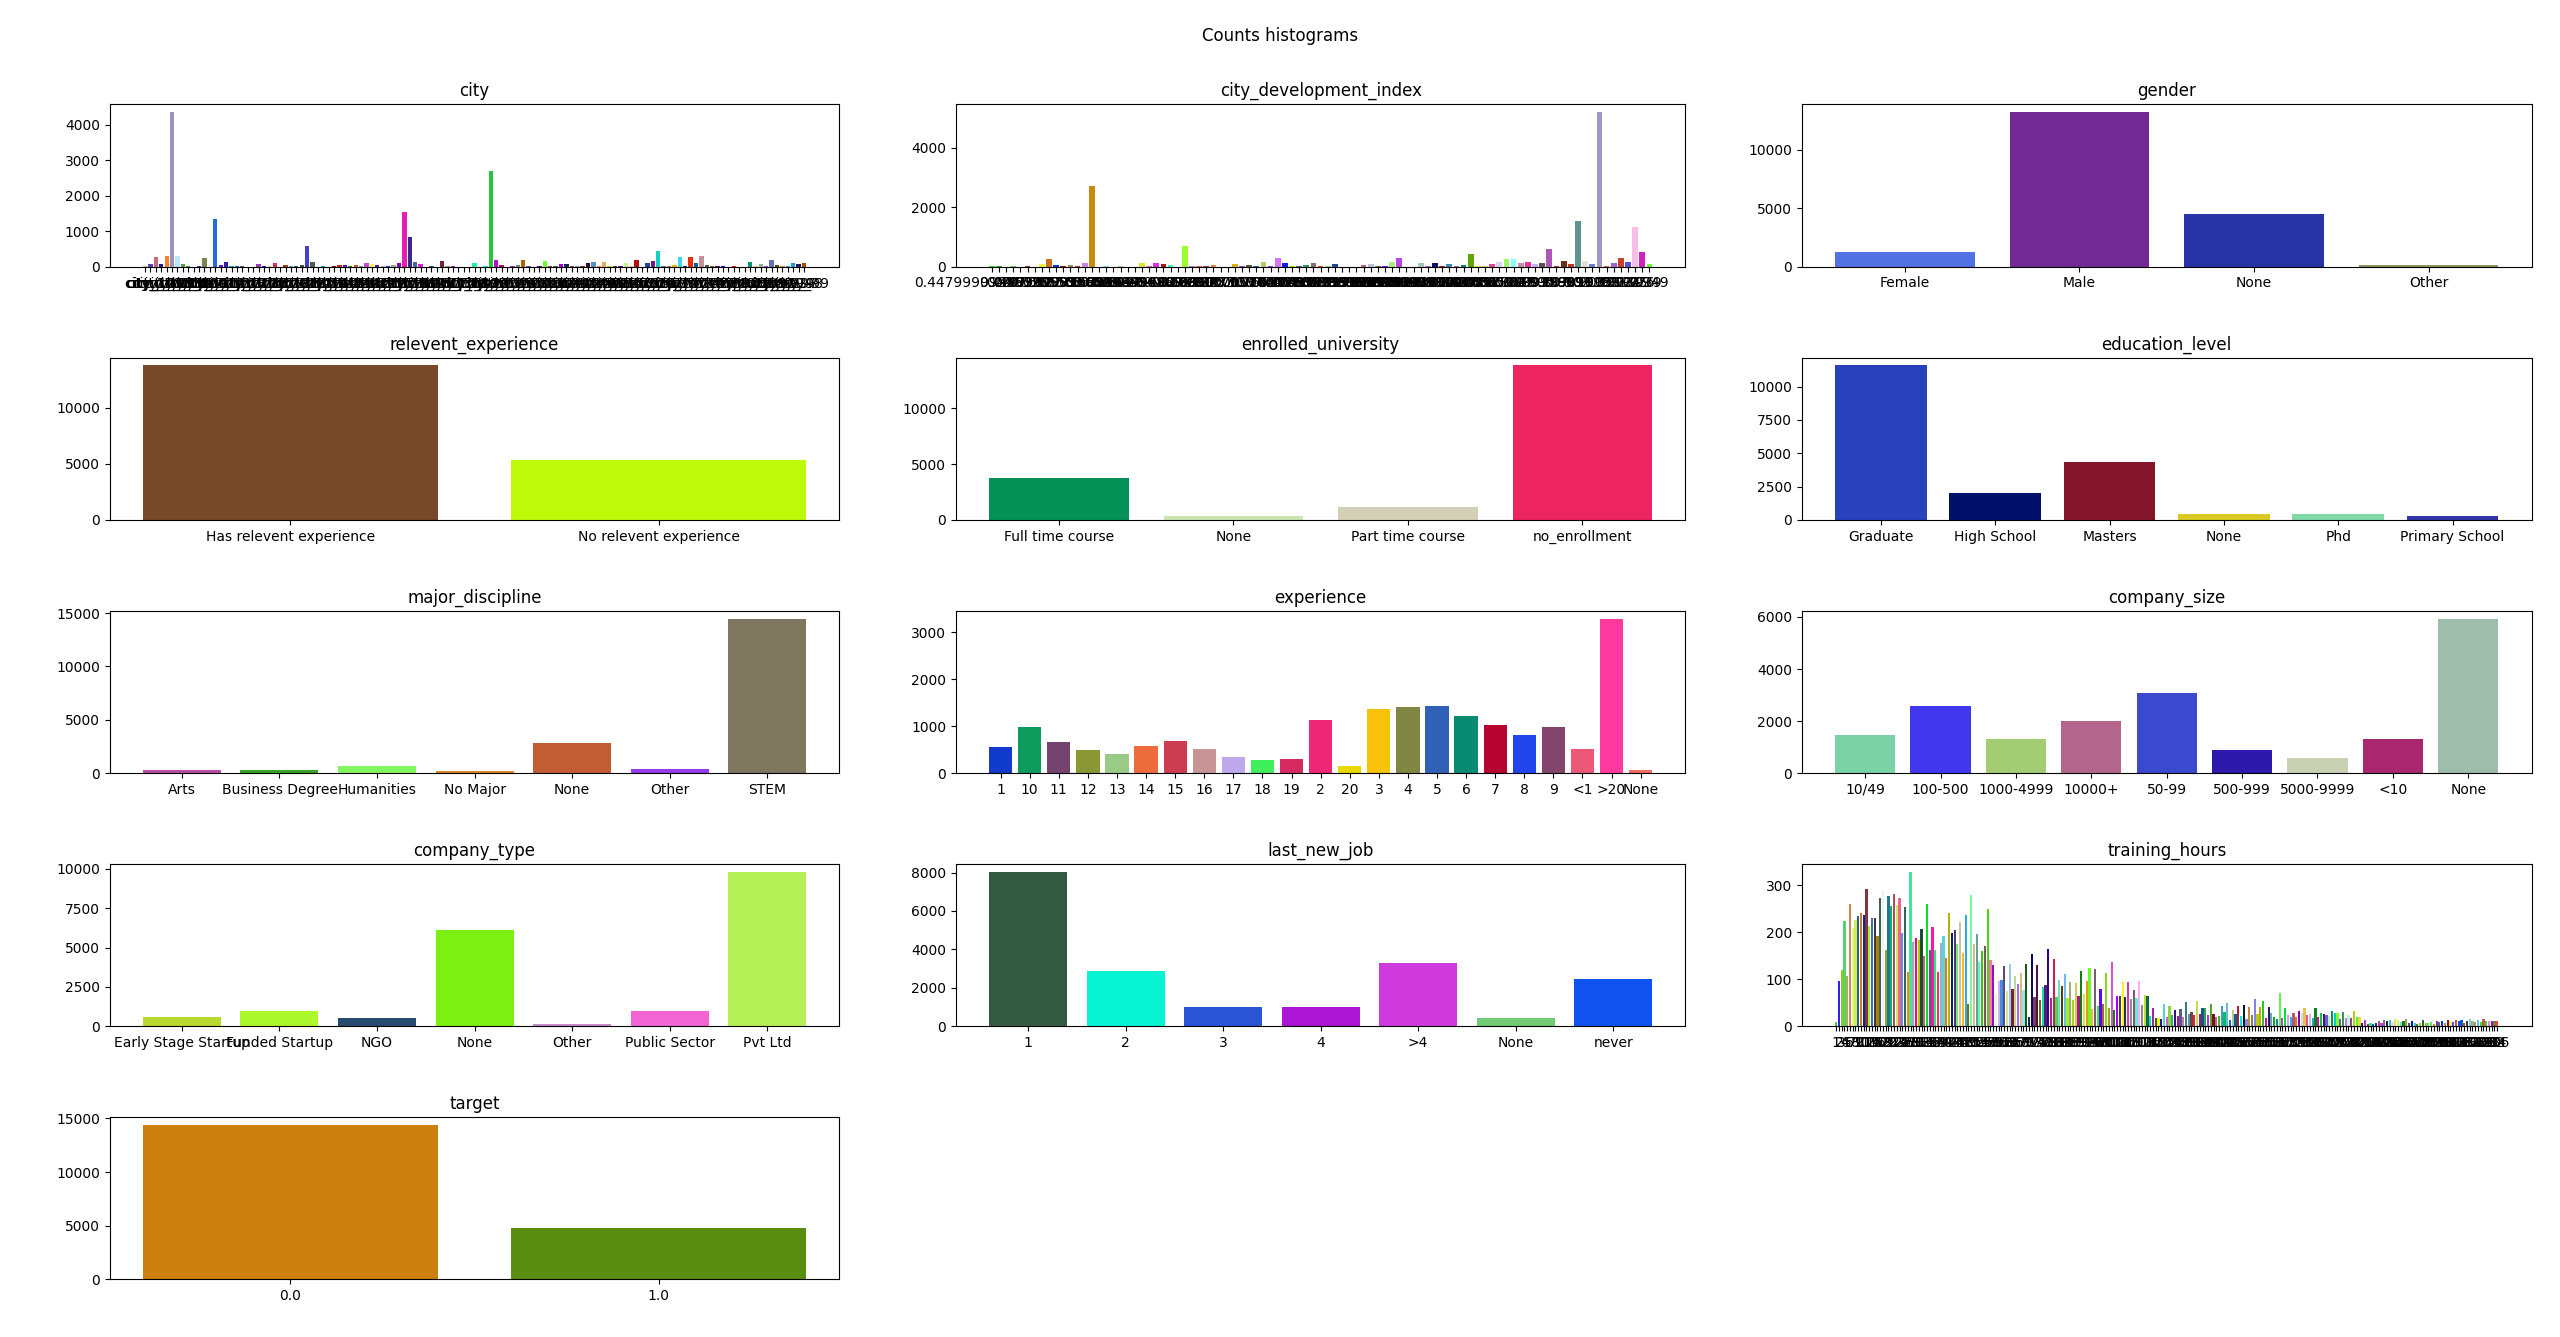
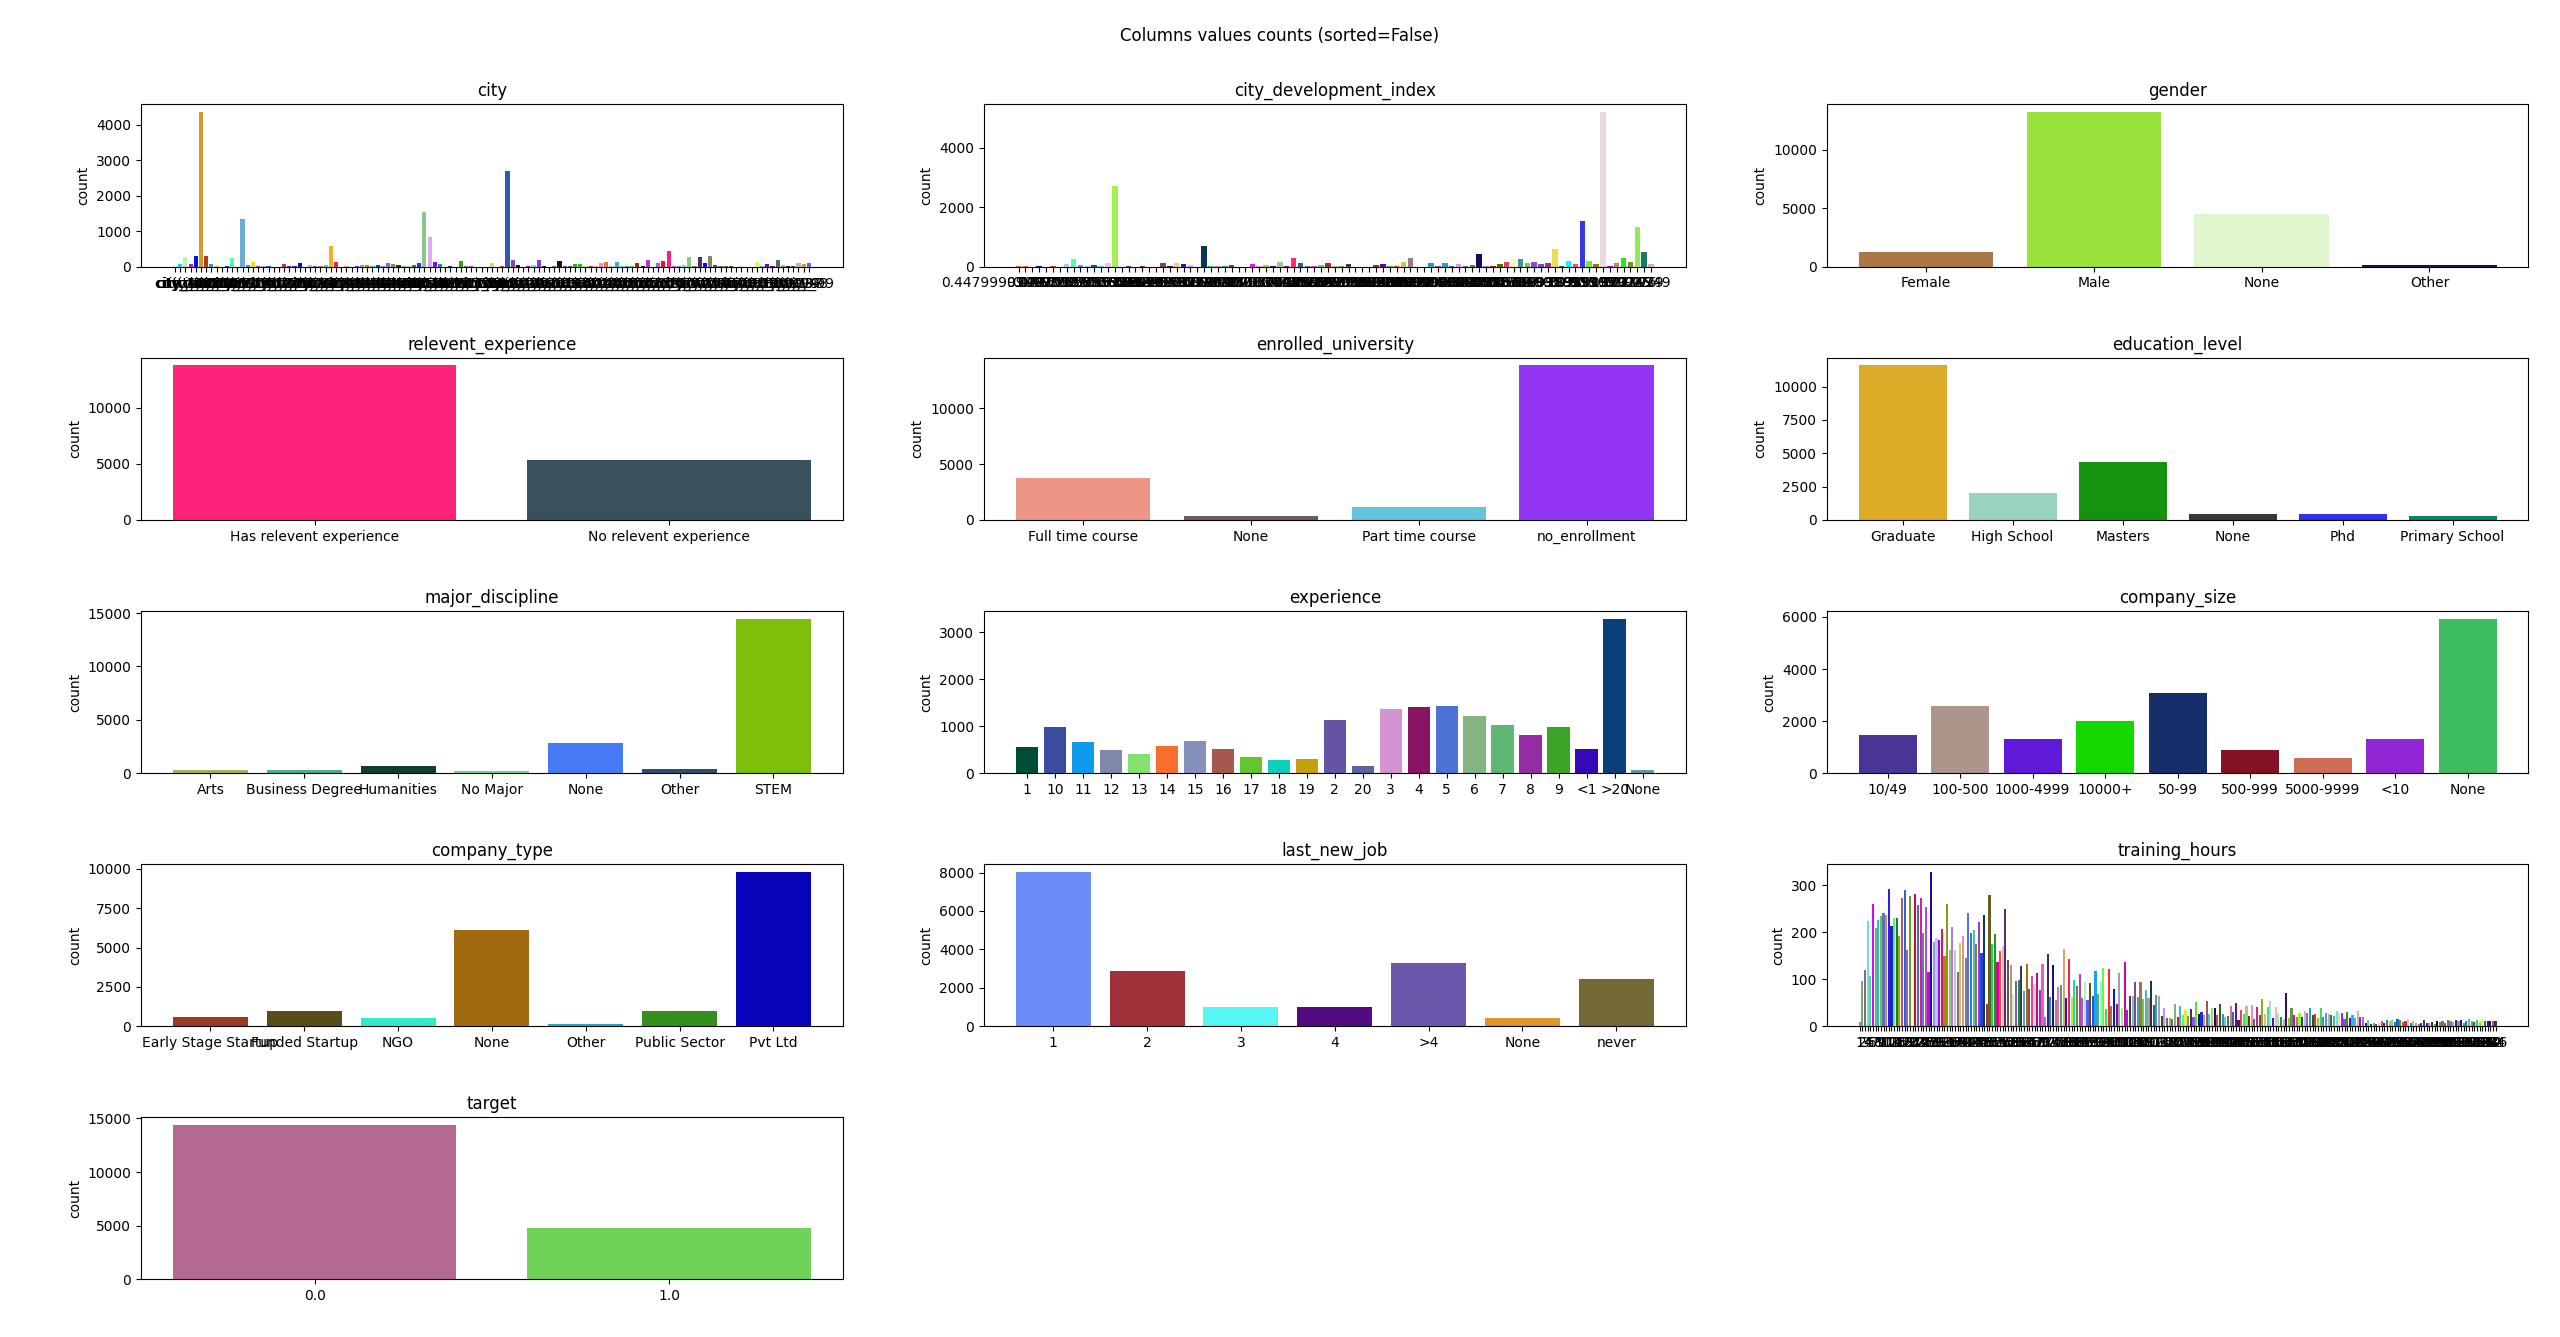
README file was updated - some images and was changed and added. Some files was modified to present all images contained in README.md file

diff --git a/data_management/processing.py b/data_management/processing.py
@@ -38,17 +38,20 @@ def process_all_labels(df: pd.DataFrame):
     proc_data
         Processed DataFrame with data ready to machine learning.
     """
-    dummies_cols = ["gender", "major_discipline", "training_hours",
-                    "last_new_job", "company_type", "company_size", "experience"]
-    encoded_cols = ["city"]
-    insignificant_cols = ["enrollee_id", "city"]
-
+    dummies_cols = ["gender", "relevent_experience", "enrolled_university", "education_level",
+                    "major_discipline", "company_size"]
     df = process_dummies_columns(df, dummies_cols)
+
+    encoded_cols = ["city", "city_development_index", "experience", "company_type",
+                    "last_new_job", "training_hours"]
+    df = encode_labels(df, encoded_cols)
+
+    insignificant_cols = ["enrollee_id"]
     df = drop_columns(df, insignificant_cols)
 
-    df["relevent_experience"] = process_relevent_exp(df)
-    df["enrolled_university"] = process_enrolled_university(df)
-    df["education_level"] = process_education_level(df)
+    # df["relevent_experience"] = process_relevent_exp(df)
+    # df["enrolled_university"] = process_enrolled_university(df)
+    # df["education_level"] = process_education_level(df)
 
     return df
 

diff --git a/data_management/analytics.py b/data_management/analytics.py
@@ -17,6 +17,7 @@ def analyse_native_data(df: pd.DataFrame):
     """
     analyse_data_columns_count(df, sort=False)
     analyse_data_target_dependencies(df, sort=True)
+    analyse_data_target_dependencies(df, sort=False)
     analyse_data_PCA_reduction(df)
 
 

diff --git a/README.md b/README.md
@@ -18,7 +18,9 @@
 > As seen in the charts below, input data counts belong to each category is varies greatly and is not evenly distributed
 > ![data_counts_details](img/data_counts_details.png)
 
-> As seen in the charts below, input data does not show any clear dependencies between a specific category and target. However, there could be a relationship between the city development index and the target 
+> As seen in the charts below, there are some potentially dependencies between a specific category and target. 
+> This is clearly visible in the charts with titles "city", "city development index", "training hours", "experience".
+> There are not visible dependencies between target and gender, major discipline, company size.
 > ![data_dependencies_unsorted](img/data_dependencies_unsorted.png)
 > ![data_dependencies_sorted](img/data_dependencies_sorted.png)
 
